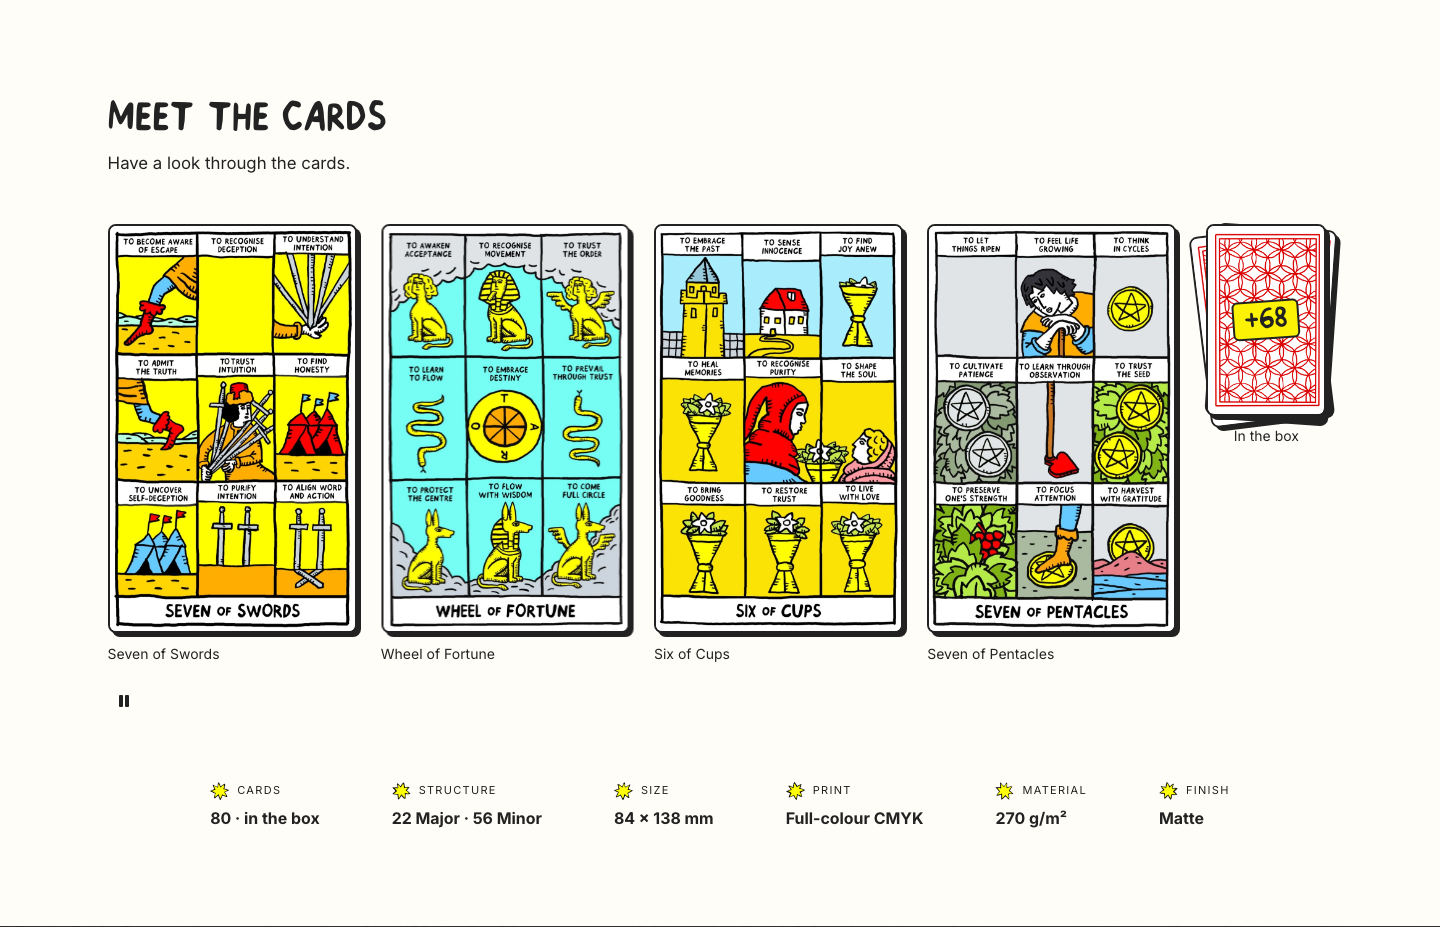
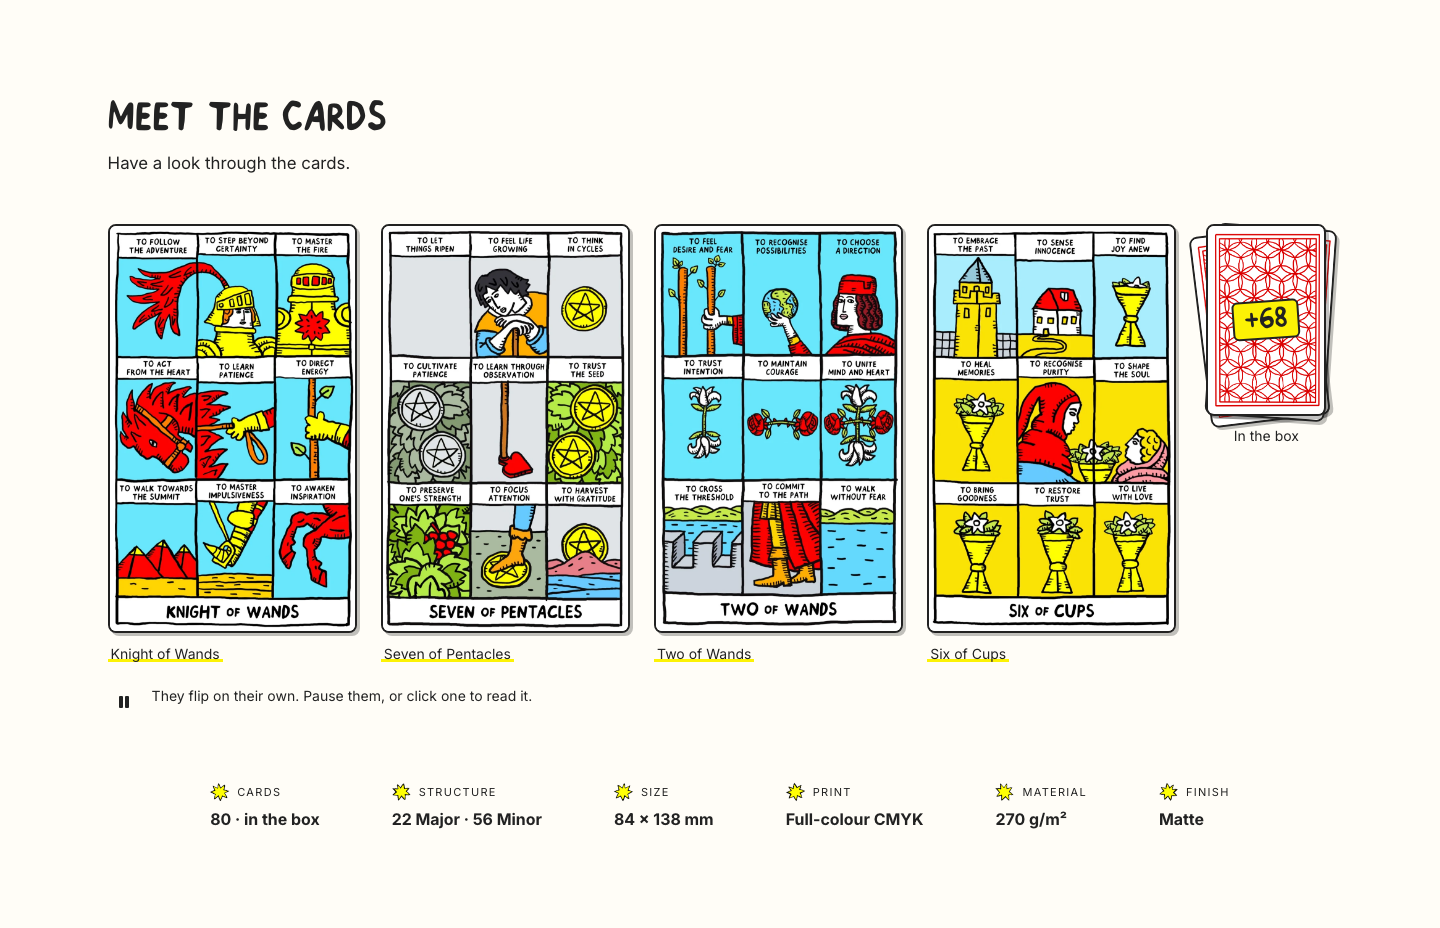
S3: simple reliable clicks, livelier tilt, lighter shadows, live timings, three cues to choose from
- the click target is now a plain button layered over the card, outside the rotating element, so
  the first click always lands whatever the flip is doing; the 2s hold, the row-wide pause and the
  swipe guard are gone
- nothing blocks a flip any more except the pause control, the open sheet and a hidden tab: the
  row keeps turning while the pointer is on it, as the live section does
- tilt back to life: 13° corner to corner (was 8°), catches the pointer at 0.4 per frame, stronger
  sheen with a moving highlight band; only the jitter fix is kept
- lighter shadows: 3px at 28% ink at rest, 5–7px at 22% on hover, same on the pile
- three discoverability cues, switchable in the theme editor: A yellow marker under the name,
  B a lifted paper corner, C a small READ tag

Measured against the live page over 20s: turn 483ms median on both, rest 2600–4400ms live vs
2667–4266ms here, peak 90° on both. First click opened the right card 10/10 with a human-like
approach; flips continue while the pointer rests on the row.

diff --git a/assets/walterin-cards.js b/assets/walterin-cards.js
@@ -8,9 +8,10 @@
   Rules that keep it from feeling buggy:
   - A click always opens the card that is on screen. What a slot *shows* is tracked separately
     from what it has *reserved*, so a click during a flip can never open the next card.
-  - Touching or pointing at a card holds that slot still, so nothing turns under the finger.
-  - Turning stops while the pointer is anywhere over the row, while focus is inside it, while the
-    sheet is open, while the tab is hidden, and whenever the pause control says so (WCAG 2.2.2).
+  - The click target never rotates: it sits over the card, outside the flipping element, so a
+    click lands on the first try whatever the flip is doing, on mouse, touch and keyboard alike.
+  - Turning stops for the pause control, the open sheet and a hidden tab. Hovering does not stop
+    it: the live section doesn't either, and the cards would otherwise look frozen.
   - The tilt is interpolated frame by frame, only one card is ever tilted, and the tilt is dropped
     while a card is flipping. Leaving, cancelling or losing the pointer all reset it.
   - prefers-reduced-motion: no turning, no tilt, no settle. Everything still works.
@@ -24,8 +25,8 @@
   var HALF = 280;                                    // each half of the flip
   var MIN_WAIT = 2500, MAX_WAIT = 4300;              // between flips
   var STAGGER = 650;                                 // between the slots' first flips
-  var HOLD = 2000;                                   // a touched or pointed-at slot holds still
-  var TILT = 8;                                      // degrees, corner to corner
+  var TILT = 13;                                     // degrees, corner to corner
+  var FOLLOW = 0.4;                                  // how fast the tilt catches the pointer
 
   function $(sel, ctx) { return (ctx || document).querySelector(sel); }
   function $$(sel, ctx) { return Array.prototype.slice.call((ctx || document).querySelectorAll(sel)); }
@@ -52,12 +53,9 @@
     var reserved = shown.slice();
     var animating = slots.map(function () { return false; });
     var running = slots.map(function () { return null; });   // the flip in flight, so pause can stop it
-    var hold = slots.map(function () { return 0; });
     var timers = [];
     var paused = reduce;
     var sheetOpen = false;
-    var pointerInRow = false;
-    var focusInRow = false;
 
     // Preload and decode the set: the swap happens edge-on, and a half-loaded image would leave
     // the old picture standing under the new name.
@@ -96,9 +94,11 @@
       clearTimeout(timers[slot]);
       timers[slot] = setTimeout(function () { flip(slot); }, wait || randInt(MIN_WAIT, MAX_WAIT));
     }
+    // The live section pauses for nothing but the tab going away; we add the pause control and
+    // the open sheet. Hovering does NOT stop the row: the click target never rotates, so a card
+    // turning under the cursor can't cost anyone a click.
     function blocked(slot) {
-      return paused || sheetOpen || pointerInRow || focusInRow || document.hidden ||
-             animating[slot] || now() < hold[slot] || !canRotate();
+      return paused || sheetOpen || document.hidden || animating[slot] || !canRotate();
     }
 
     function flip(slot) {
@@ -111,7 +111,6 @@
       var el = slots[slot];
       var flipper = $('[data-wui-flip]', el);
       var card = cards[next];
-      resetTilt(el);                                  // a flipping card is never tilted
 
       var away = flipper.animate(
         [{ transform: 'rotateY(0deg)' }, { transform: 'rotateY(90deg)' }],
@@ -154,18 +153,8 @@
 
     /* ---------- the row holds still while anyone is near it ---------- */
     var row = $('[data-wui-row]', root);
-    var leaveTimer = null;
-    row.addEventListener('pointerenter', function () { pointerInRow = true; clearTimeout(leaveTimer); });
-    row.addEventListener('pointerleave', function () {
-      clearTimeout(leaveTimer);
-      leaveTimer = setTimeout(function () { pointerInRow = false; }, 1200);
-      resetTilt();
-    });
+    row.addEventListener('pointerleave', function () { resetTilt(); });
     row.addEventListener('pointercancel', function () { resetTilt(); });
-    row.addEventListener('focusin', function () { focusInRow = true; });
-    row.addEventListener('focusout', function () {
-      setTimeout(function () { focusInRow = !!(document.activeElement && row.contains(document.activeElement)); }, 0);
-    });
     window.addEventListener('blur', function () { resetTilt(); });
 
     /* ---------- tilt: one card at a time, interpolated, never during a flip ---------- */
@@ -174,6 +163,7 @@
       el.style.setProperty('--wui-rx', (x * TILT).toFixed(2) + 'deg');
       el.style.setProperty('--wui-ry', (-y * TILT).toFixed(2) + 'deg');
       el.style.setProperty('--wui-rxn', x.toFixed(3));
+      el.style.setProperty('--wui-mxn', x.toFixed(3));
       if (mx != null) {
         el.style.setProperty('--wui-mx', (mx * 100).toFixed(1) + '%');
         el.style.setProperty('--wui-my', (my * 100).toFixed(1) + '%');
@@ -181,8 +171,8 @@
     }
     function step() {
       if (!tiltEl) { raf = null; return; }
-      cur.x += (target.x - cur.x) * 0.22;             // a soft follow instead of a snap
-      cur.y += (target.y - cur.y) * 0.22;
+      cur.x += (target.x - cur.x) * FOLLOW;           // catches up fast, but never in one jump
+      cur.y += (target.y - cur.y) * FOLLOW;
       writeTilt(tiltEl, cur.x, cur.y);
       if (Math.abs(target.x - cur.x) < 0.002 && Math.abs(target.y - cur.y) < 0.002) {
         writeTilt(tiltEl, target.x, target.y);
@@ -205,9 +195,9 @@
       el.classList.remove('is-tilting');
     }
     if (!reduce) slots.forEach(function (el, i) {
-      var t = $('[data-wui-open]', el);
-      t.addEventListener('pointermove', function (e) {
-        if (e.pointerType === 'touch' || animating[i]) return;
+      var t = $('[data-wui-tilt]', el);          // the stage, not the button: tilt survives a flip
+      el.addEventListener('pointermove', function (e) {
+        if (e.pointerType === 'touch') return;
         if (tiltEl && tiltEl !== t) { hardReset(tiltEl); }   // only ever one tilted card
         if (tiltEl !== t) { cur.x = 0; cur.y = 0; tiltEl = t; tiltSlot = i; t.classList.add('is-tilting'); }
         var r = t.getBoundingClientRect();
@@ -216,11 +206,8 @@
         target.y = Math.max(-0.5, Math.min(0.5, y - 0.5));
         writeTilt(t, cur.x, cur.y, x, y);
         if (!raf) raf = requestAnimationFrame(step);
-        hold[i] = now() + HOLD;                              // don't turn under the cursor
       });
-      t.addEventListener('pointerleave', function () { resetTilt(); });
-      t.addEventListener('pointerdown', function () { hold[i] = now() + HOLD; clearTimeout(timers[i]); schedule(i); });
-      t.addEventListener('focus', function () { hold[i] = now() + HOLD; });
+      el.addEventListener('pointerleave', function () { resetTilt(); });
     });
 
     /* ---------- the hint fades once, then never comes back ---------- */
@@ -249,7 +236,7 @@
         pause.setAttribute('aria-pressed', String(paused));
         pause.setAttribute('aria-label', paused ? pause.dataset.labelPlay : pause.dataset.labelPause);
         pause.innerHTML = paused ? PLAY_ICON : PAUSE_ICON;
-        if (!paused) slots.forEach(function (_, i) { hold[i] = 0; schedule(i, randInt(400, 1200)); });
+        if (!paused) slots.forEach(function (_, i) { schedule(i, randInt(400, 1200)); });
       });
     }
 
@@ -270,24 +257,14 @@
     /* ---------- the card sheet: always the card you can see ---------- */
     var sheet = $('[data-wui-sheet]', root);
     var opener = null;
-    // A swipe along the row must not open a card: remember where the pointer went down.
-    var downAt = null;
-    var swiped = false;
-    row.addEventListener('pointerdown', function (e) { downAt = { x: e.clientX, y: e.clientY }; });
-    row.addEventListener('pointerup', function (e) {
-      if (!downAt) return;
-      var moved = Math.abs(e.clientX - downAt.x) + Math.abs(e.clientY - downAt.y);
-      downAt = null;
-      if (moved > 12) { swiped = true; setTimeout(function () { swiped = false; }, 350); }
-    });
+
     root.addEventListener('click', function (e) {
       var btn = e.target.closest('[data-wui-open]');
-      if (!btn || swiped) return;
+      if (!btn) return;
       var el = btn.closest('[data-wui-slot]');
       var i = slots.indexOf(el);
       if (i < 0) return;
       var card = cards[shown[i]];                    // what is on screen, not what is reserved
-      hold[i] = now() + HOLD;
       if (!sheet || typeof sheet.showModal !== 'function') return;   // no dialog support: leave the card alone
       e.preventDefault();
       opener = btn;

diff --git a/docs/design/proof/s3-compare.html b/docs/design/proof/s3-compare.html
@@ -1,0 +1,17 @@
+<!doctype html><meta charset="utf-8"><title>S3 · live vs preview</title><style>body{margin:0;padding:24px 16px;font:15px/1.5 Inter,system-ui,sans-serif;background:#FFFDF7;color:#222}h1{font-size:26px;margin:0 0 6px}h2{font-size:18px;margin:32px 0 10px;border-top:2px solid #222;padding-top:14px}h3{font-size:15px;margin:16px 0 6px}.strip{display:grid;grid-template-columns:repeat(9,1fr);gap:6px}.strip img{width:100%;border:1px solid #222;border-radius:4px;display:block}.strip span{font-size:11px}.cue img{width:100%;border:2px solid #222;border-radius:6px;display:block;margin-bottom:6px}table{border-collapse:collapse;font-size:14px}td,th{border:1px solid #222;padding:6px 10px;text-align:left}p{max-width:900px}</style>
+<h1>S3 · frame by frame against the live site</h1>
+<p>One card, photographed every 60ms from the moment it starts turning. Top row: the live site. Bottom row: the preview.</p>
+<h3>Live</h3><div class="strip"><figure style="margin:0"><img src="frames/live-00.png"><span>0 ms</span></figure><figure style="margin:0"><img src="frames/live-01.png"><span>60 ms</span></figure><figure style="margin:0"><img src="frames/live-02.png"><span>120 ms</span></figure><figure style="margin:0"><img src="frames/live-03.png"><span>180 ms</span></figure><figure style="margin:0"><img src="frames/live-04.png"><span>240 ms</span></figure><figure style="margin:0"><img src="frames/live-05.png"><span>300 ms</span></figure><figure style="margin:0"><img src="frames/live-06.png"><span>360 ms</span></figure><figure style="margin:0"><img src="frames/live-07.png"><span>420 ms</span></figure><figure style="margin:0"><img src="frames/live-08.png"><span>480 ms</span></figure></div>
+<h3>Preview</h3><div class="strip"><figure style="margin:0"><img src="frames/preview-00.png"><span>0 ms</span></figure><figure style="margin:0"><img src="frames/preview-01.png"><span>60 ms</span></figure><figure style="margin:0"><img src="frames/preview-02.png"><span>120 ms</span></figure><figure style="margin:0"><img src="frames/preview-03.png"><span>180 ms</span></figure><figure style="margin:0"><img src="frames/preview-04.png"><span>240 ms</span></figure><figure style="margin:0"><img src="frames/preview-05.png"><span>300 ms</span></figure><figure style="margin:0"><img src="frames/preview-06.png"><span>360 ms</span></figure><figure style="margin:0"><img src="frames/preview-07.png"><span>420 ms</span></figure><figure style="margin:0"><img src="frames/preview-08.png"><span>480 ms</span></figure></div>
+<h2>Measured over 20 seconds, four cards, sampled every frame</h2>
+<table><tr><th></th><th>Live</th><th>Preview</th></tr>
+<tr><td>Flips seen</td><td>22</td><td>19</td></tr>
+<tr><td>Turn, median</td><td>483 ms</td><td>483 ms</td></tr>
+<tr><td>Turn, range</td><td>466–489 ms</td><td>483–484 ms</td></tr>
+<tr><td>Rest between turns</td><td>2600–4400 ms</td><td>2667–4266 ms</td></tr>
+<tr><td>Peak rotation</td><td>90°</td><td>90°</td></tr></table>
+<p>Same halves (280 ms each on the same easing curves), same rest window (2500–4300 ms), same stagger.</p>
+<h2>Three ways to show a card can be opened</h2><p>Each shot has the second card hovered, so you can see the resting state and the active state side by side.</p>
+<div class="cue"><h3>A · Yellow marker under the name</h3><p>A thin yellow line under every card name at rest; it grows into a marker stroke on hover. Permanent, so it reads as "these are links" without a word.</p><img src="frames/cue-marker.png"></div>
+<div class="cue"><h3>B · A turned-up corner</h3><p>A small ink corner on every card, as if the card is lifting off the pile; it opens further on hover. Most "paper" of the three.</p><img src="frames/cue-fold.png"></div>
+<div class="cue"><h3>C · A small READ tag</h3><p>A tiny ink tag beside each name, filled yellow on hover. Clearest, but it adds a word to every card.</p><img src="frames/cue-tag.png"></div>
